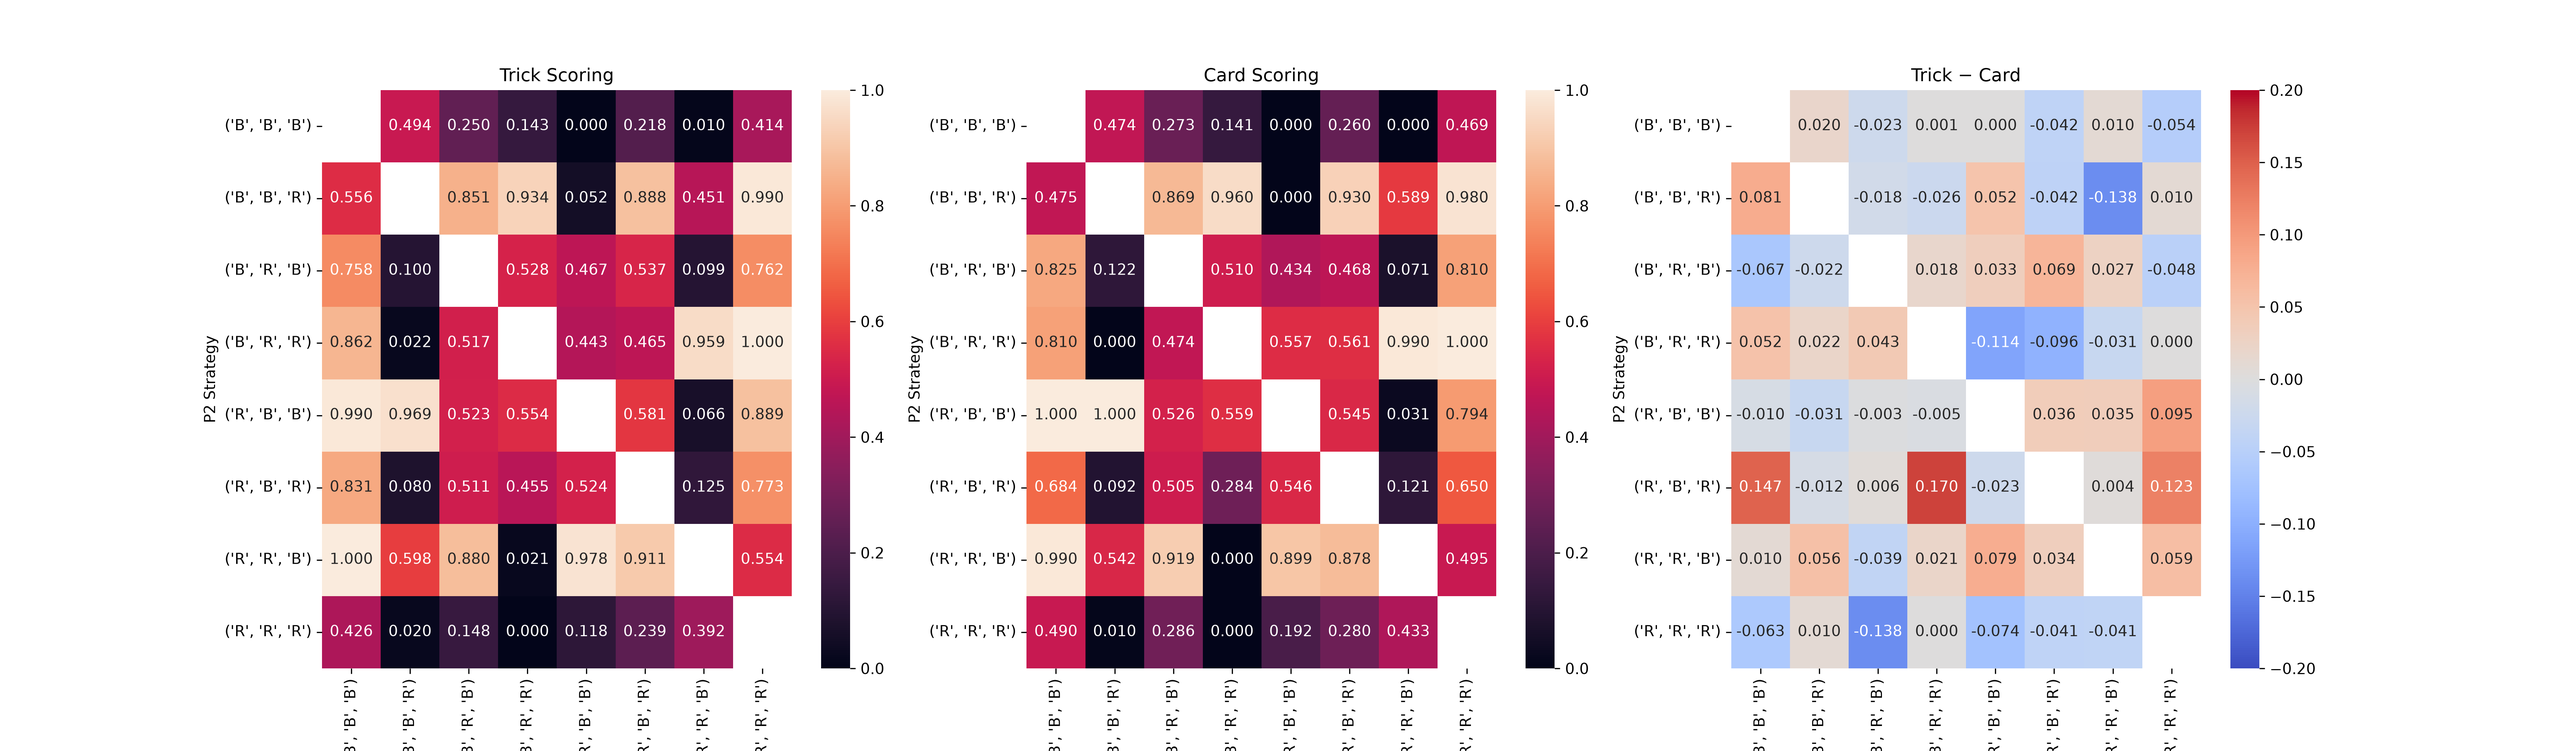
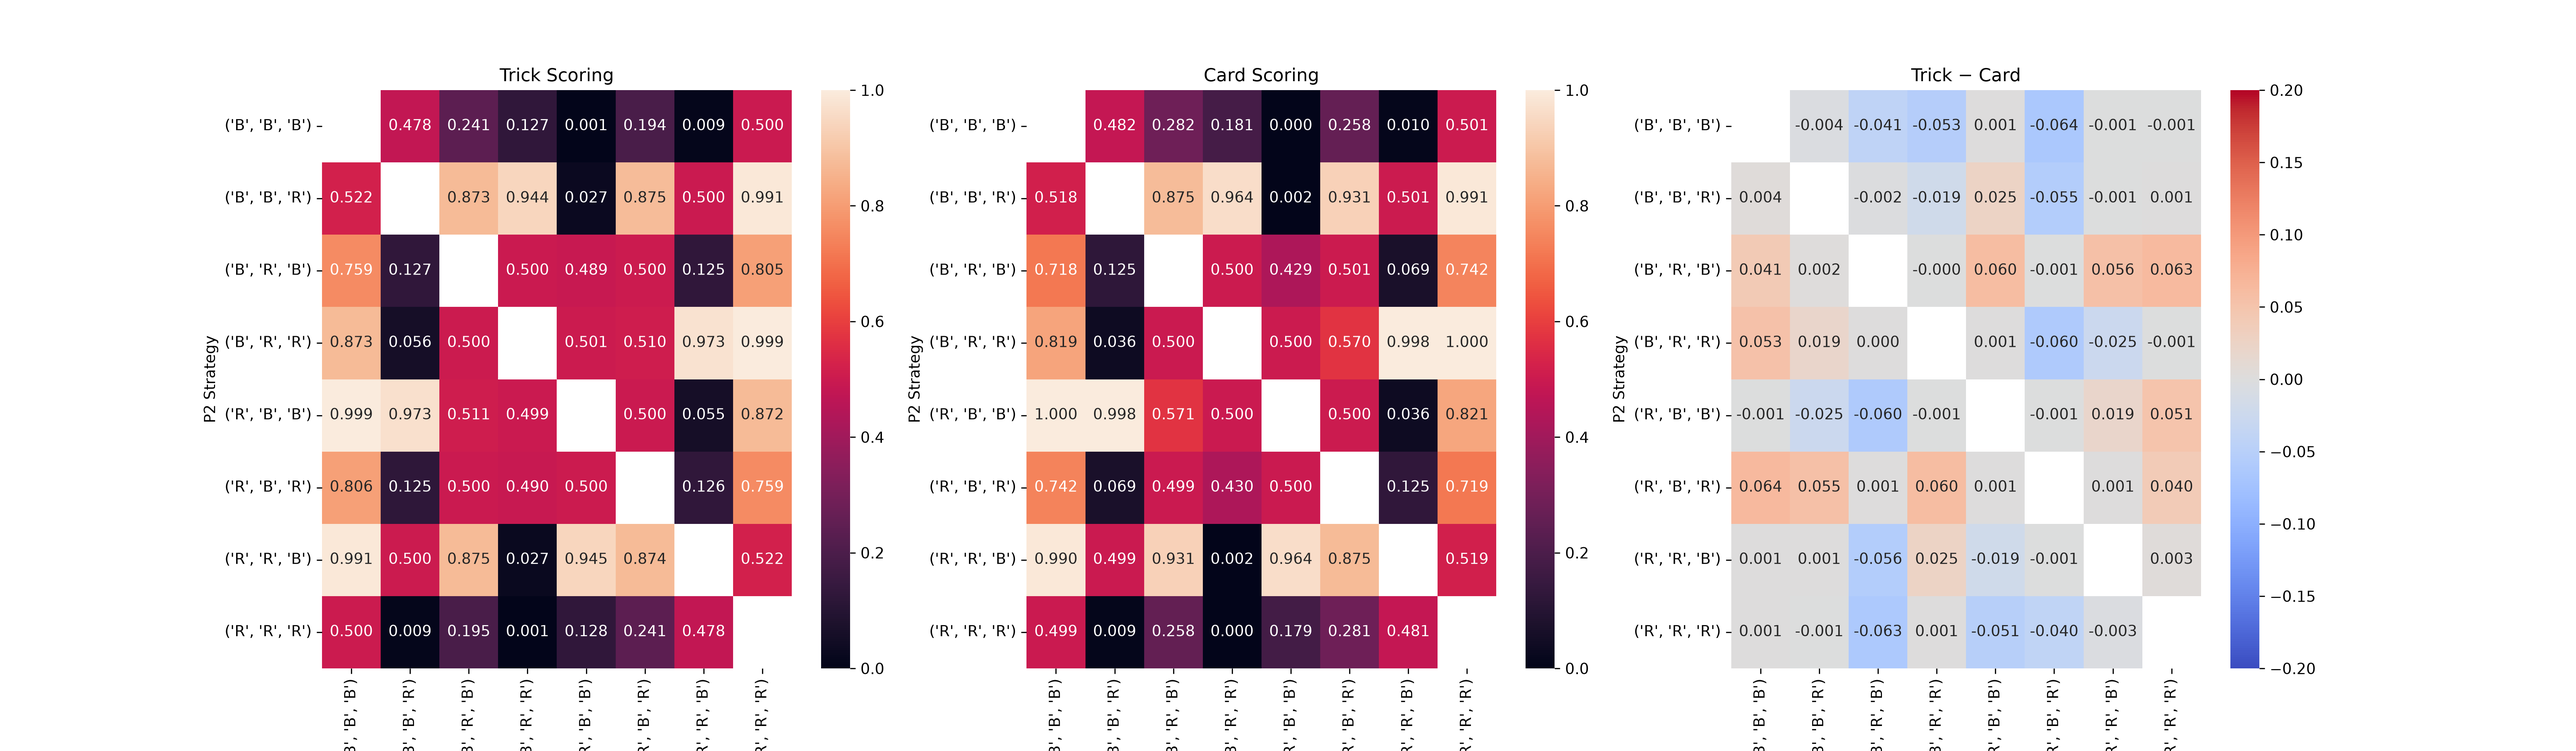
updates

diff --git a/src/carlo.py b/src/carlo.py
@@ -1,74 +1,91 @@
 import numpy as np
 import pandas as pd
-import seaborn as sb
-import matplotlib.pyplot as plt
 
-import src.game as game
-import src.figures as figure 
+from src.deck import Deck
+from src.scoring import scoring as Scoring
+import src.figures as figure
+
+def _run_simulations(num_simulations: int, scoring: str) -> Scoring:
+    """Shuffle one batch and score every strategy pair against it."""
+    if isinstance(num_simulations, (bool, np.bool_)) or not isinstance(
+        num_simulations, (int, np.integer)
+    ) or num_simulations <= 0:
+        raise ValueError('num_simulations must be a positive integer.')
+    if scoring not in ('trick', 'cards'):
+        raise ValueError("Scoring must be 'trick' or 'cards'.")
+
+    decks = Deck(num_decks=num_simulations)
+    decks.shuffle()
+    scorer = Scoring()
+    scorer.play(decks, scoring=scoring)
+    return scorer
 
 
-def carlo_simulation(num_simulations=1000, scoring='trick', p1_strategy=['R', 'R', 'R'], p2_strategy=['B', 'B', 'B'], focus = 'p2'):
-    results = {'Player 1 Wins': 0, 'Player 2 Wins': 0, 'Ties': 0}
-    g = game.Game(scoring=scoring, p1_strategy=p1_strategy, p2_strategy=p2_strategy)
-
-    for _ in range(num_simulations):
-        g.play()
-
+def _pair_probabilities(
+    scores: np.ndarray, i: int, j: int, num_simulations: int,
+    focus: str = 'p2',
+):
+    p1_wins = scores[i, j, 0]
+    p2_wins = scores[j, i, 0]
+    ties = scores[i, j, 1]
     if focus == 'p2':
-        results = np.array(g.results())[1] # Player 2 wins + ties
-        return results / (num_simulations - np.array(g.results())[2]) # Return probabilities
-    results = np.array(g.results())  # Convert to numpy array for easier manipulation
-    return results / num_simulations  # Return probabilities
+        decisive_games = num_simulations - ties
+        return p2_wins / decisive_games if decisive_games else np.nan
+    return np.array([p1_wins, p2_wins, ties]) / num_simulations
 
 
+def carlo_simulation(
+    num_simulations: int = 1000,
+    scoring: str = 'trick',
+    p1_strategy=('R', 'R', 'R'),
+    p2_strategy=('B', 'B', 'B'),
+    focus: str = 'p2',
+):
 
-def all_carlo_simulations(num_simulations=10000, scoring='trick'):
-    scoring_methods = [scoring]
-    strategies = [
-        ['R', 'R', 'R'], ['B', 'B', 'B'],
-        ['R', 'B', 'B'], ['B', 'B', 'R'],
-        ['R', 'R', 'B'], ['B', 'R', 'R'],
-        ['R', 'B', 'R'], ['B', 'R', 'B'],
-    ]
+    strategies = Scoring().strategies
+    p1, p2 = list(p1_strategy), list(p2_strategy)
+    if p1 not in strategies or p2 not in strategies:
+        raise ValueError('Strategies must contain exactly three R/B cards.')
+    if p1 == p2:
+        raise ValueError('Player strategies must be different.')
 
-    all_results = {}
+    scorer = _run_simulations(num_simulations, scoring)
+    i, j = strategies.index(p1), strategies.index(p2)
+    return _pair_probabilities(scorer.score, i, j, num_simulations, focus)
 
-    for scoring in scoring_methods:
-        for p1 in strategies:
-            for p2 in strategies:
-                if p1 != p2:
-                    key = (tuple(p1), tuple(p2))
-                    all_results[key] = carlo_simulation(num_simulations, scoring=scoring, p1_strategy=p1, p2_strategy=p2)
 
-    return all_results
+def all_carlo_simulations(
+    num_simulations: int = 10000, scoring: str = 'trick',
+) -> dict:
+    scorer = _run_simulations(num_simulations, scoring)
+    results = {}
+    for i, p1 in enumerate(scorer.strategies):
+        for j, p2 in enumerate(scorer.strategies):
+            if i != j:
+                key = (tuple(p1), tuple(p2))
+                results[key] = _pair_probabilities(
+                    scorer.score, i, j, num_simulations
+                )
+    return results
 
-def results_to_matrix(results):
+
+def results_to_matrix(results: dict) -> pd.DataFrame:
     probabilities = pd.Series(results)
     probabilities.index = probabilities.index.set_names(
-        ["P1 Strategy", "P2 Strategy"]
+        ['P1 Strategy', 'P2 Strategy']
     )
-    return probabilities.unstack("P1 Strategy")
+    return probabilities.unstack('P1 Strategy')
 
 
-
-
-
-def main(num_simulations=5000):
-
-    num_simulations = num_simulations
-  
-    trick_results = all_carlo_simulations(num_simulations, scoring="trick")
-    card_results = all_carlo_simulations(num_simulations, scoring="cards")
-
+def main(num_simulations: int = 1_000_000) -> None:
+    trick_results = all_carlo_simulations(num_simulations, scoring='trick')
+    card_results = all_carlo_simulations(num_simulations, scoring='cards')
 
     trick_matrix = results_to_matrix(trick_results)
     card_matrix = results_to_matrix(card_results)
-
     difference_matrix = trick_matrix - card_matrix
 
     figure.make_heatmaps(trick_matrix, card_matrix, difference_matrix)
-    
-    
 
 
 if __name__ == '__main__':

diff --git a/src/scoring.py b/src/scoring.py
@@ -1,19 +1,85 @@
-from deck import Deck
+from src.deck import Deck
 import numpy as np
 
+
 class scoring:
-    def init(self):
-       self.score = np.zeros(shape = (8, 8, 4)) #stragegies x strategies x [p1 wins, ties, avg tricks of p1, avg length of trick of p1]
-       self.strategies = [
-        ['R', 'R', 'R'], ['B', 'B', 'B'],
-        ['R', 'B', 'B'], ['B', 'B', 'R'],
-        ['R', 'R', 'B'], ['B', 'R', 'R'],
-        ['R', 'B', 'R'], ['B', 'R', 'B'],
+
+
+    def __init__(self):
+        self.score = np.zeros((8, 8, 4))
+        self.strategies = [
+            ['R', 'R', 'R'], ['B', 'B', 'B'],
+            ['R', 'B', 'B'], ['B', 'B', 'R'],
+            ['R', 'R', 'B'], ['B', 'R', 'R'],
+            ['R', 'B', 'R'], ['B', 'R', 'B'],
         ]
-       
-       
-       
-       
 
+    def play(self, decks: Deck | np.ndarray, scoring: str = 'trick'):
+        if scoring not in ('trick', 'cards'):
+            raise ValueError("Scoring must be 'trick' or 'cards'.")
 
+        cards = self._prepare_decks(decks)
+        codes = self._strategy_codes()
+        patterns = self._find_patterns(cards)
 
+        self.score.fill(0)
+        for i, p1_code in enumerate(codes):
+            for j in range(i + 1, len(codes)):
+                tricks, captured = self._play_pair(patterns, (p1_code, codes[j]))
+                self._record_results(i, j, tricks, captured, scoring)
+
+        return self.score
+
+    def _prepare_decks(self, decks):
+        cards = np.asarray(decks.decks if isinstance(decks, Deck) else decks)
+        if cards.ndim == 1:
+            cards = cards[:, None]
+        if cards.ndim != 2 or 0 in cards.shape:
+            raise ValueError('Decks must be a nonempty (cards, decks) array.')
+        if not np.all((cards == 0) | (cards == 1)):
+            raise ValueError('Cards must be 0 (B) or 1 (R).')
+        return cards
+
+    def _strategy_codes(self):
+        strategies = [
+            tuple(1 if card == 'R' else 0 for card in strategy)
+            for strategy in self.strategies
+        ]
+        return [4 * p[0] + 2 * p[1] + p[2] for p in strategies]
+
+    def _find_patterns(self, cards):
+        patterns = np.zeros(cards.shape, dtype=np.int8)
+        if cards.shape[0] >= 3:
+            patterns[2:] = 4 * cards[:-2] + 2 * cards[1:-1] + cards[2:]
+        return patterns
+
+    def _play_pair(self, patterns, codes):
+        num_decks = patterns.shape[1]
+        tricks = np.zeros((2, num_decks), dtype=np.int64)
+        captured = np.zeros((2, num_decks), dtype=np.int64)
+        pile_length = np.zeros(num_decks, dtype=np.int64)
+
+        for position in range(patterns.shape[0]):
+            pile_length += 1
+            if position < 2:
+                continue
+            for player, code in enumerate(codes):
+                won = (pile_length >= 3) & (patterns[position] == code)
+                tricks[player, won] += 1
+                captured[player, won] += pile_length[won]
+                pile_length[won] = 0
+
+        return tricks, captured
+
+    def _record_results(self, i, j, tricks, captured, scoring):
+        num_decks = tricks.shape[1]
+        points = tricks if scoring == 'trick' else captured
+        ties = np.count_nonzero(points[0] == points[1])
+        for player, row, column in ((0, i, j), (1, j, i)):
+            total_tricks = tricks[player].sum()
+            self.score[row, column] = [
+                np.count_nonzero(points[player] > points[1 - player]),
+                ties,
+                total_tricks / num_decks,
+                captured[player].sum() / total_tricks if total_tricks else 0,
+            ]

diff --git a/src/game.py b/src/game.py
@@ -1,4 +1,3 @@
-import numpy as np
 import src.deck as deck
 
 class Game:
@@ -26,15 +25,16 @@ class Game:
         
         self.reset()
 
-        while len(self.deck.cards) > 0:
-
-            self.current.append(*self.deck.deal(1))
-            if self.current[-3:] == self.p1:
+        for card in self.deck.decks[:, 0]:
+            self.current.append('R' if card == 1 else 'B')
+            window = self.current[-3:]
+            if window == self.p1:
                 self.score[0] += self.score_game()
                 self.current = [] 
-            elif self.current[-3:] == self.p2:
+            elif window == self.p2:
                 self.score[1] += self.score_game()
                 self.current = []
+        self.deck.decks = self.deck.decks[:0]
         if self.score[0] > self.score[1]:
             self.winner[0] += 1
         elif self.score[1] > self.score[0]:

diff --git a/src/deck.py b/src/deck.py
@@ -5,9 +5,18 @@ import numpy as np
 
 class Deck:
     def __init__(self, num_decks: int = 1):
-        self.cards = self._generate_deck(num_decks)
+        self.decks = self._generate_deck(num_decks)
         self.PATH_SEED_LOG = Path('data/seed_log.json')
         self.PATH_DECK_LOG = Path('data/deck_log.json')
+
+    @property
+    def cards(self):
+        """Keep the legacy name pointing to the current deck array."""
+        return self.decks
+
+    @cards.setter
+    def cards(self, cards):
+        self.decks = cards
 
     def _generate_deck(self, num_decks: int):
         shape = (52, num_decks)

diff --git a/main.py b/main.py
@@ -1,7 +1,8 @@
 from src.carlo import main as carlo_main
 
-def main():
-    carlo_main(num_simulations=100)
+
+def main(num_simulations: int = 1_000_000) -> None:
+    carlo_main(num_simulations=num_simulations)
 
 
 if __name__ == "__main__":
